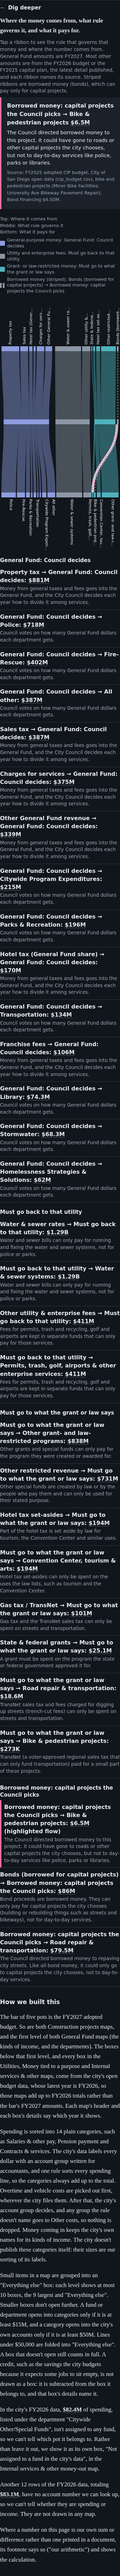
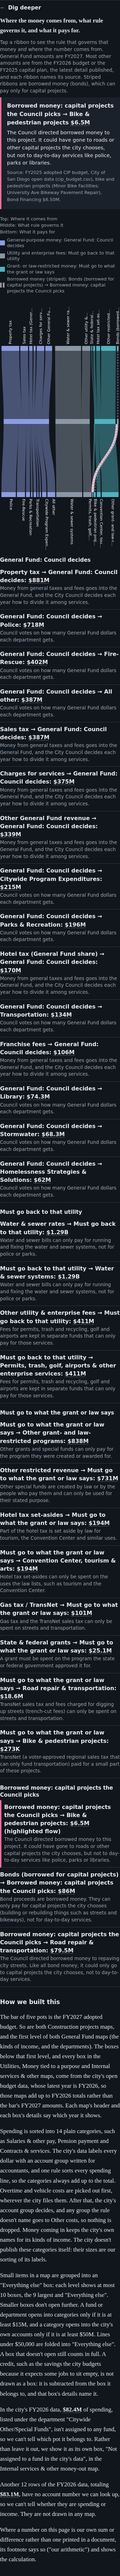
feat(site): a fuller pensions card, and Check a claim moves to the top of the page
The pensions card now answers what people ask about it: what the $563.2M payment is made of
(two-thirds pays down the past shortfall), who pays for new benefits (employees about half, by
Charter; no Social Security), what the fund took in and paid out in FY2025, where the $3.46B
shortfall came from (2001-04 underfunding and the two crashes; assumption changes and pay
growth since 2009), and what the 2009 tier and Proposition B did and didn't change. It links
to the pension part under What piles up. Sources: the June 30, 2025 valuation and the 2025
SDCERS financial report, with printed page numbers.

A claim's finding may now be a list of paragraphs (pipeline validates; the card renders one
<p> each, glossary terms linked once per card). Check a claim is the first section, since
those claims are what readers react to; the intro and section bar follow.

diff --git a/site/index.html b/site/index.html
@@ -17,17 +17,17 @@
     <figcaption>The gate to the closed Ocean Beach Pier. Replacing the deteriorated pier is one of the projects the city has <a href="#infrastructure">not found the money for</a>. Photo: Robert Ramji.</figcaption>
   </figure>
   <p class="intro">As a San Diego resident of more than a decade, I have long wondered how a city that is so famous and expensive could be so strapped for cash that it can’t afford to maintain its basic infrastructure. Since nearly everyone who lives here drives on these notoriously poor roads, I can’t imagine that I am alone in my confusion. That thought has come and gone over the years (arising most frequently when blasting my poor tires into the potholes after a heavy rain). But during this election cycle in San Diego, the abundance of rhetoric and shortage of objective data regarding the city’s budget and deficit made me realize how little I actually understood about the flows of money in San Diego.</p>
-  <p class="dek" id="dek">This page walks through the City of San Diego's budget for FY2027 (July 2026 to June 2027), which plans <span id="dek-total">about $6.5 billion</span> of spending: where the money comes from, where it goes, and why it falls short. It then looks at what piles up when money is short, how long this has been going on, and what the documents say about five common claims.</p>
+  <p class="dek" id="dek">This page starts with five claims you will hear about the budget, and what the documents say about each. It then walks through the City of San Diego's budget for FY2027 (July 2026 to June 2027), which plans <span id="dek-total">about $6.5 billion</span> of spending: where the money comes from, where it goes, why it falls short, what piles up when money is short, and how long this has been going on.</p>
 </header>
 
 <nav class="secbar" id="secbar" aria-label="Sections">
   <ul>
+    <li><a href="#claims">Check a claim</a></li>
     <li><a href="#what">The budget</a></li>
     <li><a href="#why-short">Why it falls short</a></li>
     <li><a href="#gap">The gap</a></li>
     <li><a href="#piles">What piles up</a></li>
     <li><a href="#how-long">How long</a></li>
-    <li><a href="#claims">Check a claim</a></li>
     <li><a href="#sources">Sources</a></li>
     <li><a href="#glossary">Glossary</a></li>
   </ul>
@@ -37,6 +37,12 @@
 <div id="load-error" role="alert" hidden></div>
 
 <main>
+  <section id="claims" class="chapter" aria-labelledby="claims-h">
+    <h2 id="claims-h">Check a claim</h2>
+    <p class="lead">You will hear many explanations for why the city is short of money. Here are five common ones. Tap one to see what the city's budget documents, the Council's independent budget analyst (the IBA) and the retirement system's actuary show about it, and what those numbers leave out. The rest of the page walks through the budget those answers come from.</p>
+    <figure class="chart" id="ch4-claims"></figure>
+  </section>
+
   <section id="what" class="chapter" aria-labelledby="what-h">
     <h2 id="what-h">What is the city budget, and where does the money come from?</h2>
     <p class="lead">The City of San Diego plans to spend <span data-hl-fig="total_budget_m">about $6.5 billion</span> in FY2027 (July 2026 to June 2027). Most of that money is walled off by law into separate pots, and each pot can pay only for what its own rules allow: water bills pay for the water system, for example. Only one pot, the General Fund (<span data-hl-fig="general_fund_m">about $2.3 billion</span>), is general-purpose money that the City Council can spend on any city service.</p>
@@ -145,11 +151,6 @@
     </details>
   </section>
 
-  <section id="claims" class="chapter" aria-labelledby="claims-h">
-    <h2 id="claims-h">Check a claim</h2>
-    <p class="lead">You will hear many explanations for why the city is short of money. Here are five common ones. Tap one to see what the city's budget documents and the Council's independent budget analyst (the IBA) show about it, and what those numbers leave out.</p>
-    <figure class="chart" id="ch4-claims"></figure>
-  </section>
 
   <section id="sources" class="chapter" aria-labelledby="sources-h">
     <h2 id="sources-h">Sources</h2>

diff --git a/site/claims.js b/site/claims.js
@@ -12,8 +12,12 @@ const CHIP_LABELS = {
   homelessness: 'Homelessness spending',
 };
 const PREFIX = "What this doesn't tell you: ";
-// A card's link elsewhere on the page, named for what it leads to.
-const LINK_TEXT = { 'bike-lanes': 'How projects are chosen ↓' };
+// A card's link elsewhere on the page, named for what it leads to. openDig: the target sits inside that part's
+// Dig deeper, so following the link opens it.
+const LINKS = {
+  'bike-lanes': { text: 'How projects are chosen ↓', openDig: true },
+  pensions: { text: 'The pension, under What piles up ↓' },
+};
 // First use of a glossary term in each card links to its entry.
 const TERMS = [
   [/General Fund/, 'general-fund'],
@@ -26,12 +30,12 @@ export function claimCardModel(claim) {
     id: claim.id,
     chipLabel: CHIP_LABELS[claim.id] || claim.claim.split(' ').slice(0, 4).join(' '),
     claimText: `"${claim.claim}"`,
-    finding: claim.finding,
+    findings: Array.isArray(claim.finding) ? claim.finding : [claim.finding],
     hasChart: claim.chart != null,
     chart: claim.chart ?? null,
     matched: claim.matched_projects && claim.matched_projects.length ? claim.matched_projects : null,
     caveatText: PREFIX + claim.caveat,
-    link: claim.link ? { href: claim.link, text: LINK_TEXT[claim.id] || 'Read more ↓' } : null,
+    link: claim.link ? { href: claim.link, text: LINKS[claim.id]?.text || 'Read more ↓', openDig: !!LINKS[claim.id]?.openDig } : null,
     sources: claim.sources.map((s) => ({ text: s.page != null ? `${s.doc}, page ${s.page}` : s.doc, url: s.url })),
   };
 }
@@ -44,11 +48,11 @@ function el(tag, cls, text) {
 }
 
 // The bike card's link leads to "How projects are chosen", which sits in that part's Dig deeper: open it and go there.
-// Without the target on the page this is plain anchor navigation.
+// Without the target on the page, or for a link to the part itself, this is plain anchor navigation.
 function openLinkTarget(e) {
   const target = document.querySelector(e.currentTarget.getAttribute('href'));
   const dig = target?.querySelector('details.dig');
-  if (!dig) return;
+  if (!dig || e.currentTarget.dataset.openDig !== 'true') return;
   e.preventDefault();
   dig.open = true;
   const spot = dig.querySelector('[data-anchor]') || target;
@@ -81,9 +85,17 @@ export function mountClaims(root, claims) {
   const build = (m, claim) => {
     const h = el('h3', 'claim-q', m.claimText);
     h.tabIndex = -1;
-    const finding = el('p', 'claim-finding');
-    finding.append(...linkTerms(m.finding, TERMS));
-    const parts = [h, finding];
+    // Glossary terms link on their first appearance in the card, not once per paragraph.
+    const seen = new Set();
+    const findings = m.findings.map((text) => {
+      const p = el('p', 'claim-finding');
+      const fresh = TERMS.filter(([, s]) => !seen.has(s));
+      const nodes = linkTerms(text, fresh);
+      nodes.forEach((n) => { if (n.nodeType === 1) seen.add(n.getAttribute('href').slice(3)); });
+      p.append(...nodes);
+      return p;
+    });
+    const parts = [h, ...findings];
     let chartBox = null;
     if (m.hasChart) {
       const fig = el('figure', 'chart claim-fig');
@@ -103,6 +115,7 @@ export function mountClaims(root, claims) {
     if (m.link) {
       const a = el('a', 'read-more', m.link.text);
       a.href = m.link.href;
+      if (m.link.openDig) a.dataset.openDig = 'true';
       a.addEventListener('click', openLinkTarget);
       parts.push(a);
     }

diff --git a/site-tests/final.test.js b/site-tests/final.test.js
@@ -11,13 +11,24 @@ const dir = new URL('../data/build/', import.meta.url);
 const load = (f) => expandUrls(JSON.parse(readFileSync(new URL(`${f}.json`, dir), 'utf8')));
 const all = Object.fromEntries(readdirSync(dir).map((f) => [f, expandUrls(JSON.parse(readFileSync(new URL(f, dir), 'utf8')))]));
 
-test('bike card exposes its link to how projects are chosen; the others have none', () => {
+test('bike and pension cards expose their links; the others have none', () => {
   const claims = load('claims');
   for (const c of claims) {
     const m = claimCardModel(c);
-    if (c.id === 'bike-lanes') assert.deepEqual(m.link, { href: '#infrastructure', text: 'How projects are chosen ↓' });
+    if (c.id === 'bike-lanes') assert.deepEqual(m.link, { href: '#infrastructure', text: 'How projects are chosen ↓', openDig: true });
+    else if (c.id === 'pensions') assert.deepEqual(m.link, { href: '#pension', text: 'The pension, under What piles up ↓', openDig: false });
     else assert.equal(m.link, null);
   }
+});
+
+test('a finding is one paragraph or several; the pensions card has several', () => {
+  const claims = load('claims');
+  for (const c of claims) {
+    const m = claimCardModel(c);
+    assert.ok(Array.isArray(m.findings) && m.findings.length >= 1 && m.findings.every((p) => typeof p === 'string' && p.length));
+  }
+  assert.ok(claimCardModel(claims.find((c) => c.id === 'pensions')).findings.length >= 4);
+  assert.equal(claimCardModel(claims.find((c) => c.id === 'managers')).findings.length, 1);
 });
 
 test('Sources: one entry per URL, each titled by the document, never by one cited part', () => {

diff --git a/site/app.js b/site/app.js
@@ -421,7 +421,7 @@ async function main() {
   if (new URLSearchParams(location.search).has('debug')) window.__data = data;
   guarded('headline', null, () => renderHeadline(data.headline));
   guarded('glossary', 'glossary-list', () => renderGlossary(document.getElementById('glossary-list'), data.glossary));
-  // Section order on the page: what, why-short, gap, piles, how-long, claims. Later tasks add their renderers here.
+  // Section order on the page: claims, what, why-short, gap, piles, how-long. Rendering order is unchanged.
   guarded('section 1: budget maps', 's1-maps', () => renderWhat(data));
   guarded('section 1 dig: money-flow Sankey', 'ch2-sankey', () => renderSankey(data.flows));
   guarded('section 1 dig: how we built this', 's1-methods', () => renderMethods(document.getElementById('s1-methods'), data.budgetTree));

diff --git a/tests/test_build.py b/tests/test_build.py
@@ -403,7 +403,10 @@ def test_curated_claims_shape():
     split = re.compile(r"(?<=[.!?])\s+(?=[A-Z\"$(])")
     for c in claims:
         assert c["claim"].strip() and c["sources"]
-        assert len(split.split(c["finding"].strip())) <= 4, c["id"]
+        paras = c["finding"] if isinstance(c["finding"], list) else [c["finding"]]
+        assert 1 <= len(paras) <= 5, c["id"]
+        for para in paras:
+            assert len(split.split(para.strip())) <= 4, c["id"]
         assert len(split.split(c["caveat"].strip())) == 1, c["id"]
     managers = next(c for c in claims if c["id"] == "managers")
     assert managers["chart"] is None and "Axios" in managers["finding"]
@@ -487,8 +490,9 @@ def test_v2_corrections(tmp_path):
     assert [x["value"] for x in m28["figures"]] == [9.5, 32.9]
     assert m28["figures"][0]["source"]["page"] == 36 and m28["figures"][1]["source"]["page"] == 43
     claims = {c["id"]: c for c in json.loads((out / "claims.json").read_text())}
-    assert "396.3" in claims["pensions"]["finding"] and "396.1" not in claims["pensions"]["finding"]
-    assert "proposed budget" in claims["pensions"]["finding"]  # the 17.7% share is labelled as proposed-basis
+    pensions = " ".join(claims["pensions"]["finding"])
+    assert "396.3" in pensions and "396.1" not in pensions
+    assert "proposed budget" in pensions  # the 17.7% share is labelled as proposed-basis
     assert "June 8, 2026" in claims["trash-fee"]["finding"] and "tentative" not in claims["trash-fee"]["finding"]
 
 
@@ -539,7 +543,8 @@ def test_build_all_replaces_out_dir_on_success(tmp_path):
 def test_bike_card_links_to_how_projects_are_chosen(tmp_path):
     claims = {c["id"]: c for c in _claims_curated()}
     assert claims["bike-lanes"]["link"] == "#infrastructure"
-    assert all("link" not in c for i, c in claims.items() if i != "bike-lanes")
+    assert claims["pensions"]["link"] == "#pension"
+    assert all("link" not in c for i, c in claims.items() if i not in ("bike-lanes", "pensions"))
     out, _ = _build(tmp_path)
     built = {c["id"]: c for c in json.loads((out / "claims.json").read_text())}
     assert built["bike-lanes"]["link"] == "#infrastructure"
@@ -589,3 +594,24 @@ def test_county_sales_tax_checks():
     bad["sales_tax"]["county"]["cities"].pop()
     with pytest.raises(ValueError, match="18"):
         build_why_short(bad)
+
+
+def test_pensions_card_answers_who_pays_and_where_the_shortfall_came_from():
+    p = next(c for c in _claims_curated() if c["id"] == "pensions")
+    text = " ".join(p["finding"])
+    # The payment's parts (valuation Table V-1), who pays for new benefits, and the history of the shortfall.
+    for needle in ("$375.3 million", "$170.4 million", "14.0%", "18.6%", "Social Security", "$487.5 million",
+                   "$159.3 million", "97.3% to 65.8%", "$1.82 billion", "Proposition B", "$119 million", "2041"):
+        assert needle in text, needle
+    assert "would not remove it" in p["caveat"]
+    pages = {(s["url"].rsplit("/", 1)[1], s["page"]) for s in p["sources"]}
+    assert ("2025-sdcers-city-valuation-report.pdf", 35) in pages and ("fy-2025-sdcers-acfr-final.pdf", 25) in pages
+
+
+def test_build_claims_rejects_an_empty_finding_paragraph():
+    import pytest
+    from pipeline.build import build_claims
+    bad = [{"id": "x", "claim": "c", "finding": ["f.", " "], "caveat": "c.", "chart": None,
+            "sources": [{"doc": "d", "page": 1, "url": "https://example.org/d.pdf"}]}]
+    with pytest.raises(ValueError, match=r"^claims\[0\]\.finding"):
+        build_claims(bad, [], {"gf_by_fy": {}, "gf_dept_by_fy": {}})

diff --git a/pipeline/build.py b/pipeline/build.py
@@ -278,9 +278,15 @@ def build_claims(curated_claims: list[dict], cip_rows: list[dict], series: dict,
     """Claim-checker cards: curated text plus charts computed from the CSVs."""
     out = []
     for i, c in enumerate(curated_claims):
-        for key in ("id", "claim", "finding", "caveat"):
+        for key in ("id", "claim", "caveat"):
             if not isinstance(c.get(key), str) or not c[key].strip():
                 raise ValueError(f"claims[{i}].{key}: required non-empty string")
+        # The finding is one paragraph, or a list of paragraphs for a card that needs more room.
+        paras = c.get("finding")
+        if isinstance(paras, str):
+            paras = [paras]
+        if not isinstance(paras, list) or not paras or not all(isinstance(p, str) and p.strip() for p in paras):
+            raise ValueError(f"claims[{i}].finding: a non-empty string or a non-empty list of them")
         if not c.get("sources"):
             raise ValueError(f"claims[{i}].sources: at least one source required")
         for k, src in enumerate(c["sources"]):

diff --git a/docs/research/claims-sources.md b/docs/research/claims-sources.md
@@ -32,6 +32,21 @@ The city CIP CSV leaves out SANDAG-built regional bikeways and most grant-funded
 ## Pensions
 IBA 26-11 p.75: ADC $563.2M (+$30.0M from $533.2M), GF $396.1M; 8.8% citywide, 17.7% GF; UAL $3.46B and 76.1% funded at 2025-06-30 (74.7% a year earlier). IBA 26-11 p.3: pension increase and slower revenue growth raised baseline deficit to $118.0M. IBA 25-36 p.7: full ADC funded since FY2006.
 
+Expanded 2026-11-11 after Reddit comments ("pensions are the real reason", "give employees 401(k)s", "reform already neutered pensions, 15 years to age out"). VAL25 = SDCERS City of San Diego Actuarial Valuation as of June 30, 2025 (Cheiron); ACFR25 = SDCERS Annual Comprehensive Financial Report 2025. Printed page numbers. Longer notes in `pension-reserves-2026-10.md`.
+
+- VAL25 Table V-1 p.35 (total City column, paid at start of year): UAL payment $375.3M; normal cost $170.4M; administrative expenses $16.1M; Prop B police tier conversion $1.9M; ADC $563.2M. Rates: total normal cost 28.04% of pay, member 14.03%, employer 14.01%. Non-safety columns: General Old Plan payroll $185.5M, 2009 Plan $699.6M, weighted non-safety $887.5M; normal cost 25.73% vs 23.78%; UAL $1,631.6M vs $240.6M.
+- VAL25 Table V-1 (safety) p.36: member contribution rate 18.56%, employer normal cost rate 18.25% (weighted safety).
+- VAL25 Appendix A p.76: employee rate includes the Charter Section 143 "substantially equal" rate, 50% of the normal cost of service retirement allowances.
+- VAL25 Appendix A p.71: non-safety employees withdrew from Social Security effective January 1, 1982; safety employees never participated.
+- ACFR25 MD&A Table 4 p.25 (City column, FY2025, $ thousands): plan sponsor contributions 487,515; member and other contributions 159,281; net investment income 965,717; benefit payments 659,587.
+- VAL25 Table I-1 p.3: UAL $3,464.3M; funded ratio 76.1% (74.7% prior).
+- VAL25 p.7: 2001–2004 funded ratio 97.3% → 65.8%, "dot com" decline "coupled with the City underfunding the Plan while benefits were increased"; 2007–2009 78.8% → 66.5%.
+- VAL25 p.16: UAL change since 2009: assumptions +$1,821.7M; investment + liability experience +$1,493.6M; all other −$1,154.2M "largely due to contributions in excess of the ADC"; net +$2,161.1M. Discount rate lowered from 8.00% to 6.50% (p.7).
+- VAL25 p.1: Prop B unwound; plan reopened to non-police employees July 10, 2021. FY25 CBO p.67: "In early 2021, the California Superior Court invalidated Proposition B."
+- VAL25 Table V-2 p.37: "Proposition B Shortfall" base 7/1/2022, $119,051,737, 20 years.
+- VAL25 p.12: baseline projection ADC FY2028 $573.2M, FY2029 $493.4M; 100% funded "by the June 30, 2041 valuation at which time the ADC declines sharply".
+- Not stated in any document, so not on the card: what a 401(k)-style plan would cost the city; "79%" (699.6 / 887.5) is left as the two figures.
+
 ## Managers
 No series of manager counts over time exists in the cached data or the CSVs. IBA 26-11 p.46: 833.00 of 12,628.50 standard-hour FTEs (6.6%) unclassified/unrepresented; p.47 GF table (City Council 135.00 unclassified); p.48: unclassified = 37.0% of net FTE reduction; p.7 footnote 8: unclassified as "general shorthand" for management. Axios 2024-12-12 returned HTTP 403 to WebFetch (implementer and reviewer). Only the headline is cited (seen by the controller in search results): "Amid $200 million annual deficit, San Diego managers have grown 461% in 10 years"; the article's definition of managers is unverified.
 
